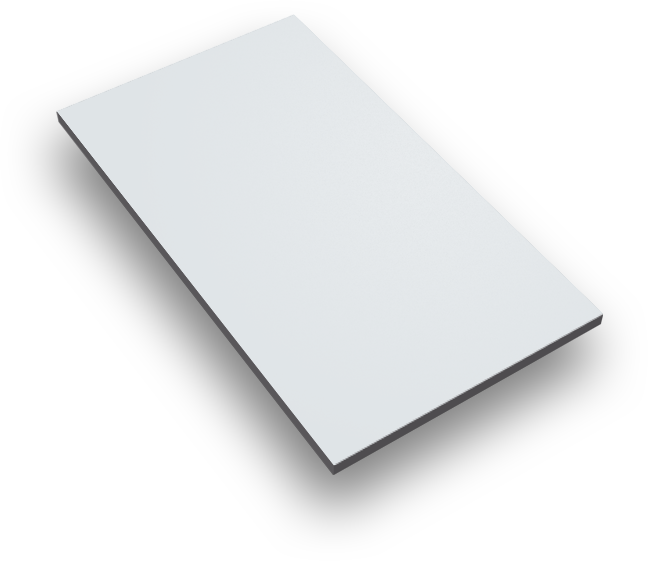
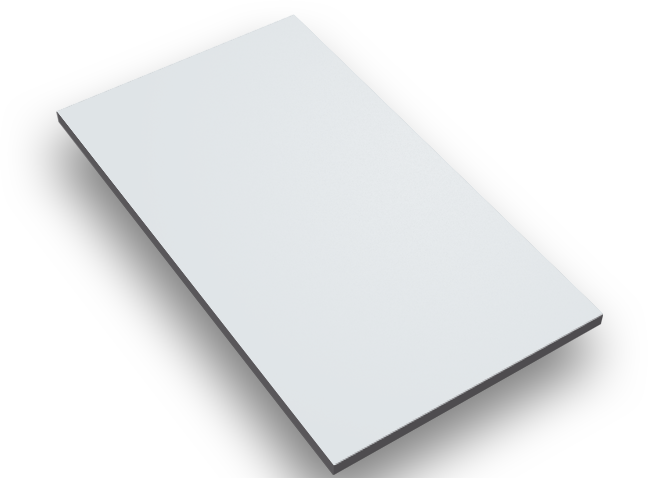
adjusted image in live conference section to get overlap on bottom

diff --git a/index.html b/index.html
@@ -86,7 +86,6 @@ imperdiet ac ullamcorper fusce</p>
         </ul>
       </section>
       <section data-section="conference-support">
-        <img src="/img/portrait-display-mockup.png" alt="" title="">
         <div class="conference-text-wrapper">
           <p class="btn-small">New</p>
           <h1>Live conference support available</h1>
@@ -107,6 +106,7 @@ imperdiet ac ullamcorper fusce</p>
             </div>
           </aside>
         </div>
+        <img src="/img/portrait-display-mockup.png" alt="" title="">
       </section>
       <section data-section="why-appbox">
         <h1 class="header-underline">Why Choose AppBox</h1>

diff --git a/sass/layout/_conference-support.scss b/sass/layout/_conference-support.scss
@@ -20,11 +20,12 @@
   @media only screen and (min-width: 50em) {
     @include flex-box($align: center, $direction: row, $justify: space-between);
     max-width: 100%;
-    padding: 5% 8%;
+    padding: 8% 8% 2% 8%;
 
     .conference-text-wrapper {
       order: 1;
       max-width: 45%;
+      padding-bottom: 8%;
 
       .btn-small {
         border-top: 3px solid border('new');
